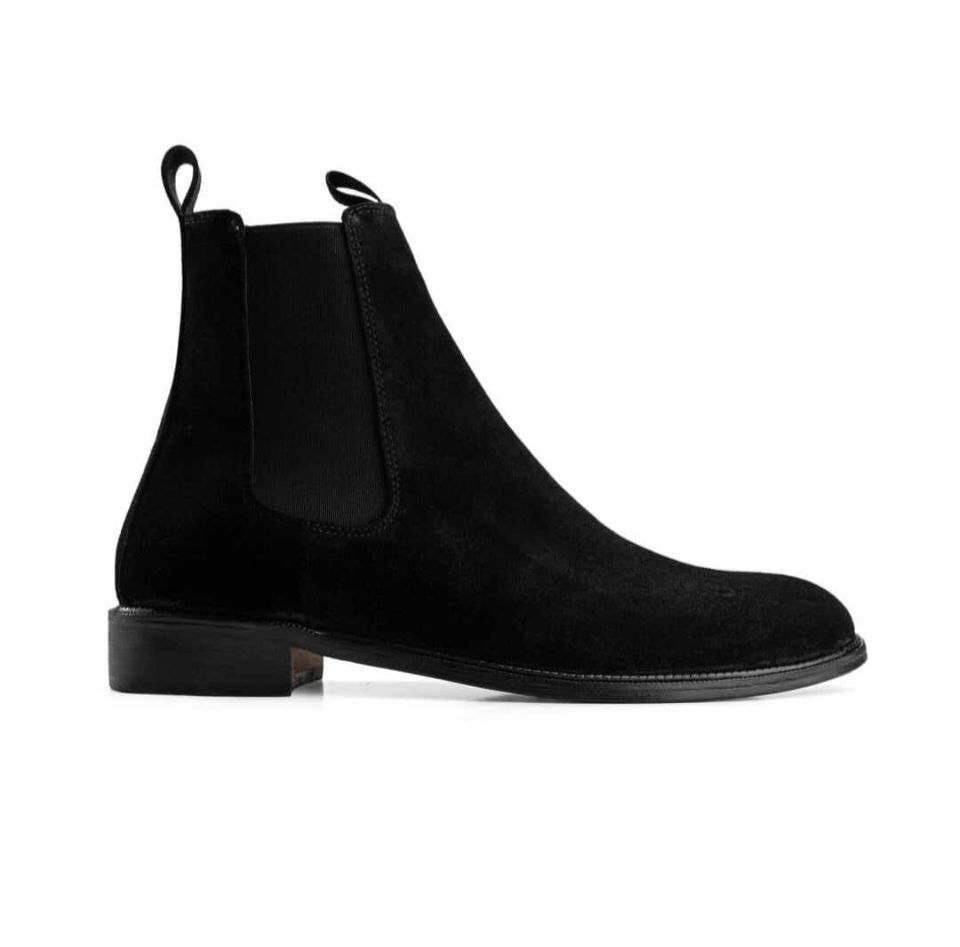
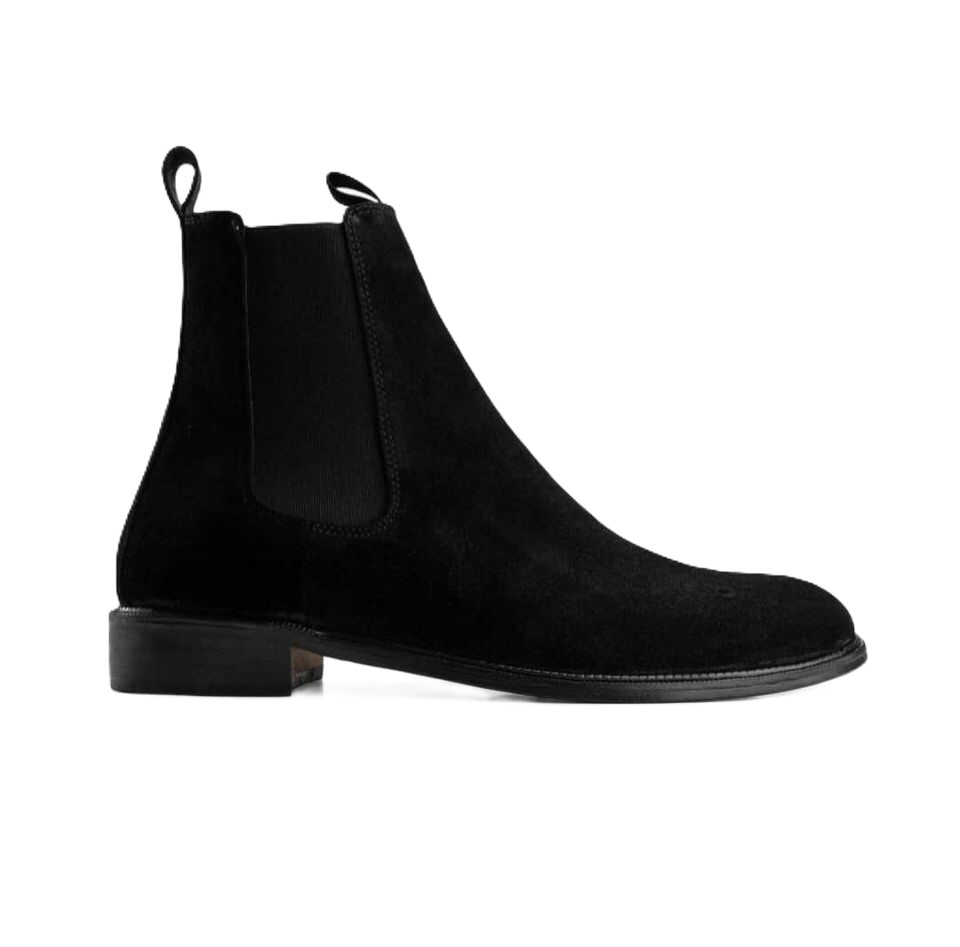
new update

diff --git a/src/components/Navbar.jsx b/src/components/Navbar.jsx
@@ -188,7 +188,7 @@ const Navbar = () => {
               {/* Left: Logo */}
               <div className="flex-1">
                 <img 
-                  src="/api/placeholder/100/35" 
+                  src="/logo.jpg" 
                   alt="Luona Logo" 
                   className="h-8 w-auto"
                 />

diff --git a/src/components/Hero.jsx b/src/components/Hero.jsx
@@ -34,7 +34,7 @@ const HeroSection = () => {
     },
     {
       id: 4,
-      image: "/boots 6.jpg",
+      image: "/boots 14.png",
       alt: "Built to Last",
       title: "BUILT TO",
       highlight: "LAST",
